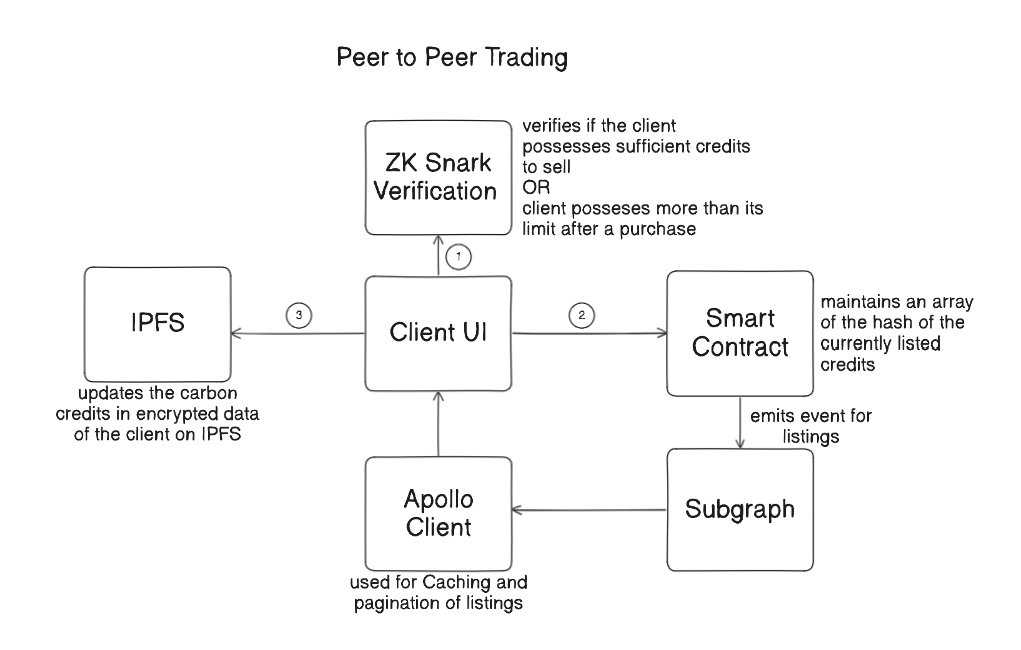
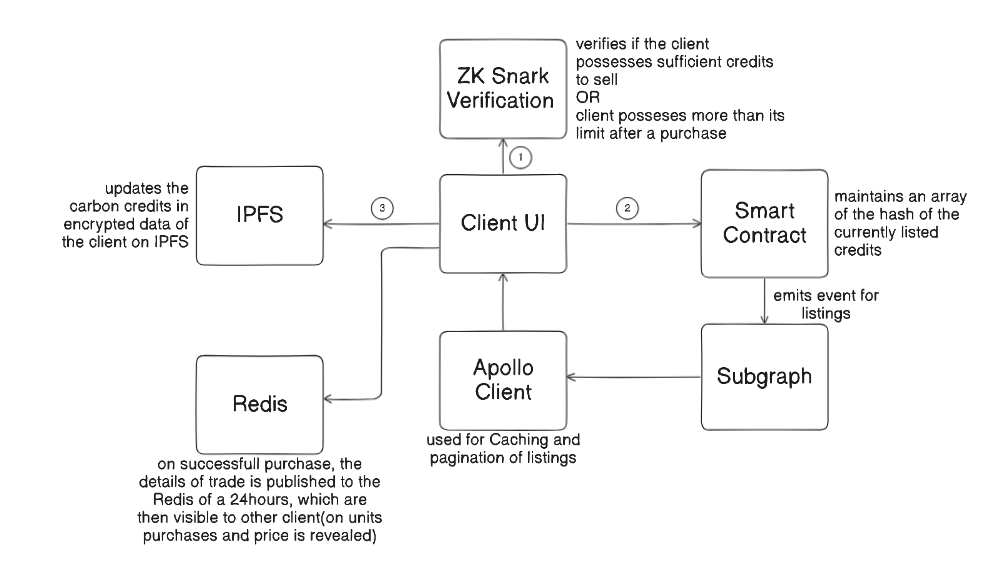
minor

diff --git a/README.md b/README.md
@@ -4,9 +4,10 @@
 
 ## Complete Idea with a Business Model and Go-To Market Strategy
 #### Here's a [ppt](https://github.com/) about the entire project
+#### To read all the documentations and work flow refer to the ['docs'](https://github.com/Aardy-Bond/Kriti-25/tree/main/docs) directory
 
 ## 💻 TechStack Used
-#### <ul><li>JavaScript</li><li>Solidity</li><li>Circom</li><li>ReactJS</li><li>TailwindCSS</li><li>NodeJS</li><li>Web3.js</li><li>MongoDB</li><li>IPFS</li><li>PinataSDK</li><li>GraphQL</li><li>SocketIO</li><li>ZK Snarks</li></ul>
+#### <ul><li>JavaScript</li><li>Solidity</li><li>Circom</li><li>ReactJS</li><li>TailwindCSS</li><li>NodeJS</li><li>Web3.js</li><li>MongoDB</li><li>IPFS</li><li>PinataSDK</li><li>GraphQL</li><li>SocketIO</li><li>ZK Snarks</li><li>Redis</li></ul>
 
 
 ## 🚀 Features
@@ -22,6 +23,7 @@
 #### An ESP32 microcontroller setup connected to a computer for running the Arduino code
 #### An Account in the HiveMQ-A MQTT Broker Cloud
 #### Arduino IDE installed on the computer with which the ESP32 microcontroller will be connected using MicroUSB cable
+#### A free account on Redis Cloud
 #### <ul><li>[Node.js](https://nodejs.org/en/)</li><li>[MetaMask extension](https://microsoftedge.microsoft.com/addons/detail/metamask/ejbalbakoplchlghecdalmeeeajnimhm)</li><li>[MongoDB(local)](https://www.mongodb.com/docs/manual/installation/)</li><li>[MongoAtlas(Cloud)](https://www.youtube.com/watch?v=VkXvVOb99g0)</li><li>[IPFS](https://merrillinsurance.ipfs.com/)</li><li>[PinataSDK](https://pinata.cloud/)</li><li>[HiveMQ](https://www.hivemq.com/mqtt/public-mqtt-broker/)</li><li>[Cloudinary](https://cloudinary.com/users/login)</li></ul>
 
 ### Setting up the frontend
@@ -62,6 +64,10 @@ MONGODB_URI= " URL of the cloud database setup on MongoAtlas "
 api_secret= " credentials of cloudinary "
 api_key= " credentials of cloudinary "
 cloud_name= " credentials of cloudinary "
+
+REDIS_HOST = "get from redis cloud" ,
+REDIS_PORT = "get from redis cloud" ,
+REDIS_PASSWORD = "get from redis cloud",
 ```
 ### Starting the project locally
 #### in app/client, below starts the client-side React+Vite application
@@ -70,7 +76,9 @@ npm run build
 npm run prod
 ```
 #### in app/server, below starts the server-side Node+Express application
-
+```
+npm run dev
+```
 
 ## 📂 Directory Structure
 ```
@@ -134,8 +142,8 @@ npm run prod
 ## ⭐ Feature Suggestion
 #### Feel free to [open an issue](https://github.com/) on GitHub if you have feature idea to be added 🙌.
 
-## 🧩 Team
-#### <ul><li>[Srinjoy](https://github.com/)</li><li>[Kevin](https://github.com/)</li><li>[Yash](https://github.com/)</li><li>[Shreyansh](https://github.com/)</li><li>[Dev](https://github.com/)</li><li>[Ayushmann](https://github.com/)</li></ul>
+<!-- ## 🧩 Team
+#### <ul><li>[Srinjoy](https://github.com/)</li><li>[Kevin](https://github.com/)</li><li>[Yash](https://github.com/)</li><li>[Shreyansh](https://github.com/)</li><li>[Dev](https://github.com/)</li><li>[Ayushmann](https://github.com/)</li></ul> -->
 
 
 Thanks for visiting my repository 😊!! Please give a star ⭐ if you liked our project.

diff --git a/docs/architechture/README.md b/docs/architechture/README.md
@@ -149,6 +149,10 @@ The Peer-to-Peer (P2P) Carbon Credit Trading system enables companies to securel
   - **Memory caching** for performance optimization.
   - **Pagination** for seamless data handling.
 
+### 4. Off-Chain caching of recent Trades
+- Once a trade is successfully, the trade details(except any details of client) is published on redis using socketIO which is then visible to other clients for 24hours
+- Redis decouples the client, thus preventing the exposure of even the IP address of the clients to other clients.
+
 ## Conclusion
 
 The **P2P Carbon Credit Trading system** ensures a **transparent, decentralized, and privacy-preserving** marketplace for carbon credits. By integrating **ZK-SNARKs**, **on-chain event emissions**, and **The Graph**, the platform guarantees **secure transactions**, **prevents monopolization**, and **enhances query efficiency** for a seamless user experience.
